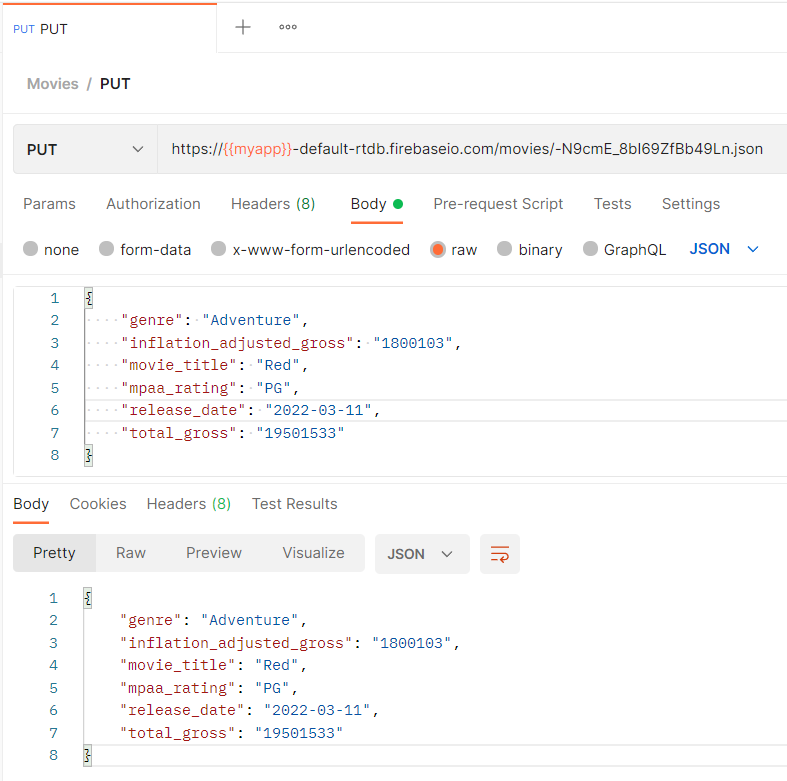
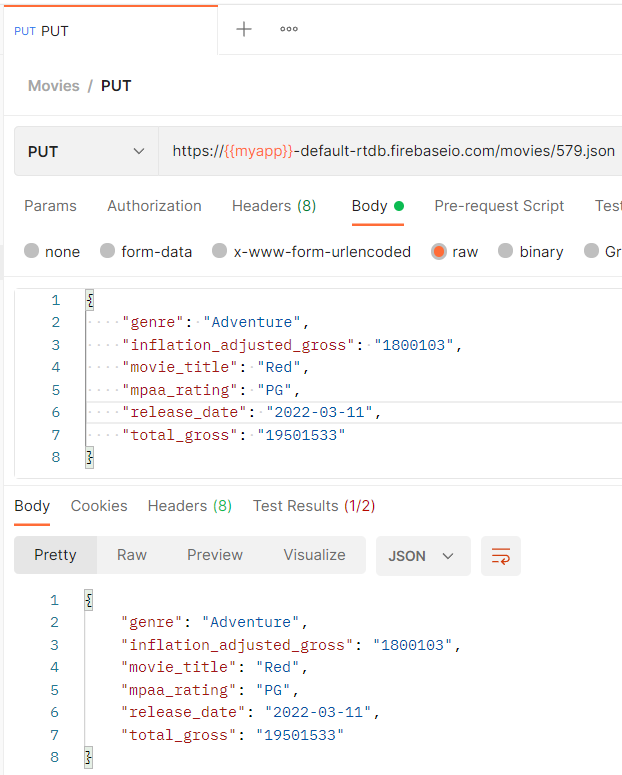
C05/EJ04

diff --git a/Capítulo 05/ejercicio04/README.md b/Capítulo 05/ejercicio04/README.md
@@ -29,25 +29,25 @@
       <img src="imagenes/request.png">
     </p>
 
-    - _**GET-all**_: De tipo **GET** para obtener todos la colección. Haga clic en el botón **Send** para enviar el requerimiento.
+    - _**GET-all**_: De tipo **GET** para obtener todos la colección, al URL: `https://{{myapp}}-default-rtdb.firebaseio.com/movies.json`. Haga clic en el botón **Send** para enviar el requerimiento.
       <p align="center">  
         <img src="imagenes/GET-all.png">
       </p>
 
-    - _**GET-one**_: De tipo **GET** para del elemento **150** de la colección, con: `https://{{myapp}}-default-rtdb.firebaseio.com/movies/150.json`. Haga clic en el botón **Send** para enviar el requerimiento.
+    - _**GET-one**_: De tipo **GET** para del elemento **150** de la colección, al URL: `https://{{myapp}}-default-rtdb.firebaseio.com/movies/150.json`. Haga clic en el botón **Send** para enviar el requerimiento.
       <p align="center">  
         <img src="imagenes/GET-one.png">
       </p>
 
-    - _**POST**_: De tipo **POST** para enviar datos a la colección. Modifique el **Body** del requerimiento de tipo **raw**. 
+    - _**POST**_: De tipo **POST** para enviar datos a la colección, al URL `https://{{myapp}}-default-rtdb.firebaseio.com/movies/579.json`. Modifique el **Body** del requerimiento de tipo **raw**. 
       ```
       {
           "genre": "Adventure",
           "inflation_adjusted_gross": "",
           "movie_title": "Red",
           "mpaa_rating": "PG-13",
-          "release_date": "2022-03-11",
-          "total_gross": "19501533"
+          "release_date": "",
+          "total_gross": ""
       }
       ```
 
@@ -56,7 +56,12 @@
         <img src="imagenes/POST.png">
       </p>
 
-    - _**PUT**_: De tipo **PUT** para enviar datos a la colección, con `https://{{myapp}}-default-rtdb.firebaseio.com/movies/{{lastName}}.json`.  Modifique el **Body** del requerimiento de tipo **raw**. 
+      La colección en firebase después del POST
+      <p align="center">  
+        <img src="imagenes/firebase_POST.png">
+      </p>
+
+    - _**PUT**_: De tipo **PUT** para enviar datos a la colección, al URL `https://{{myapp}}-default-rtdb.firebaseio.com/movies/579.json`.  Modifique el **Body** del requerimiento de tipo **raw**. 
       ```
       {
           "genre": "Adventure",
@@ -71,6 +76,11 @@
       Haga clic en el botón **Send** para enviar el requerimiento.
       <p align="center">  
         <img src="imagenes/PUT.png">
+      </p>
+
+      La colección en firebase después del PUT
+      <p align="center">  
+        <img src="imagenes/firebase_PUT.png">
       </p>
 
 
